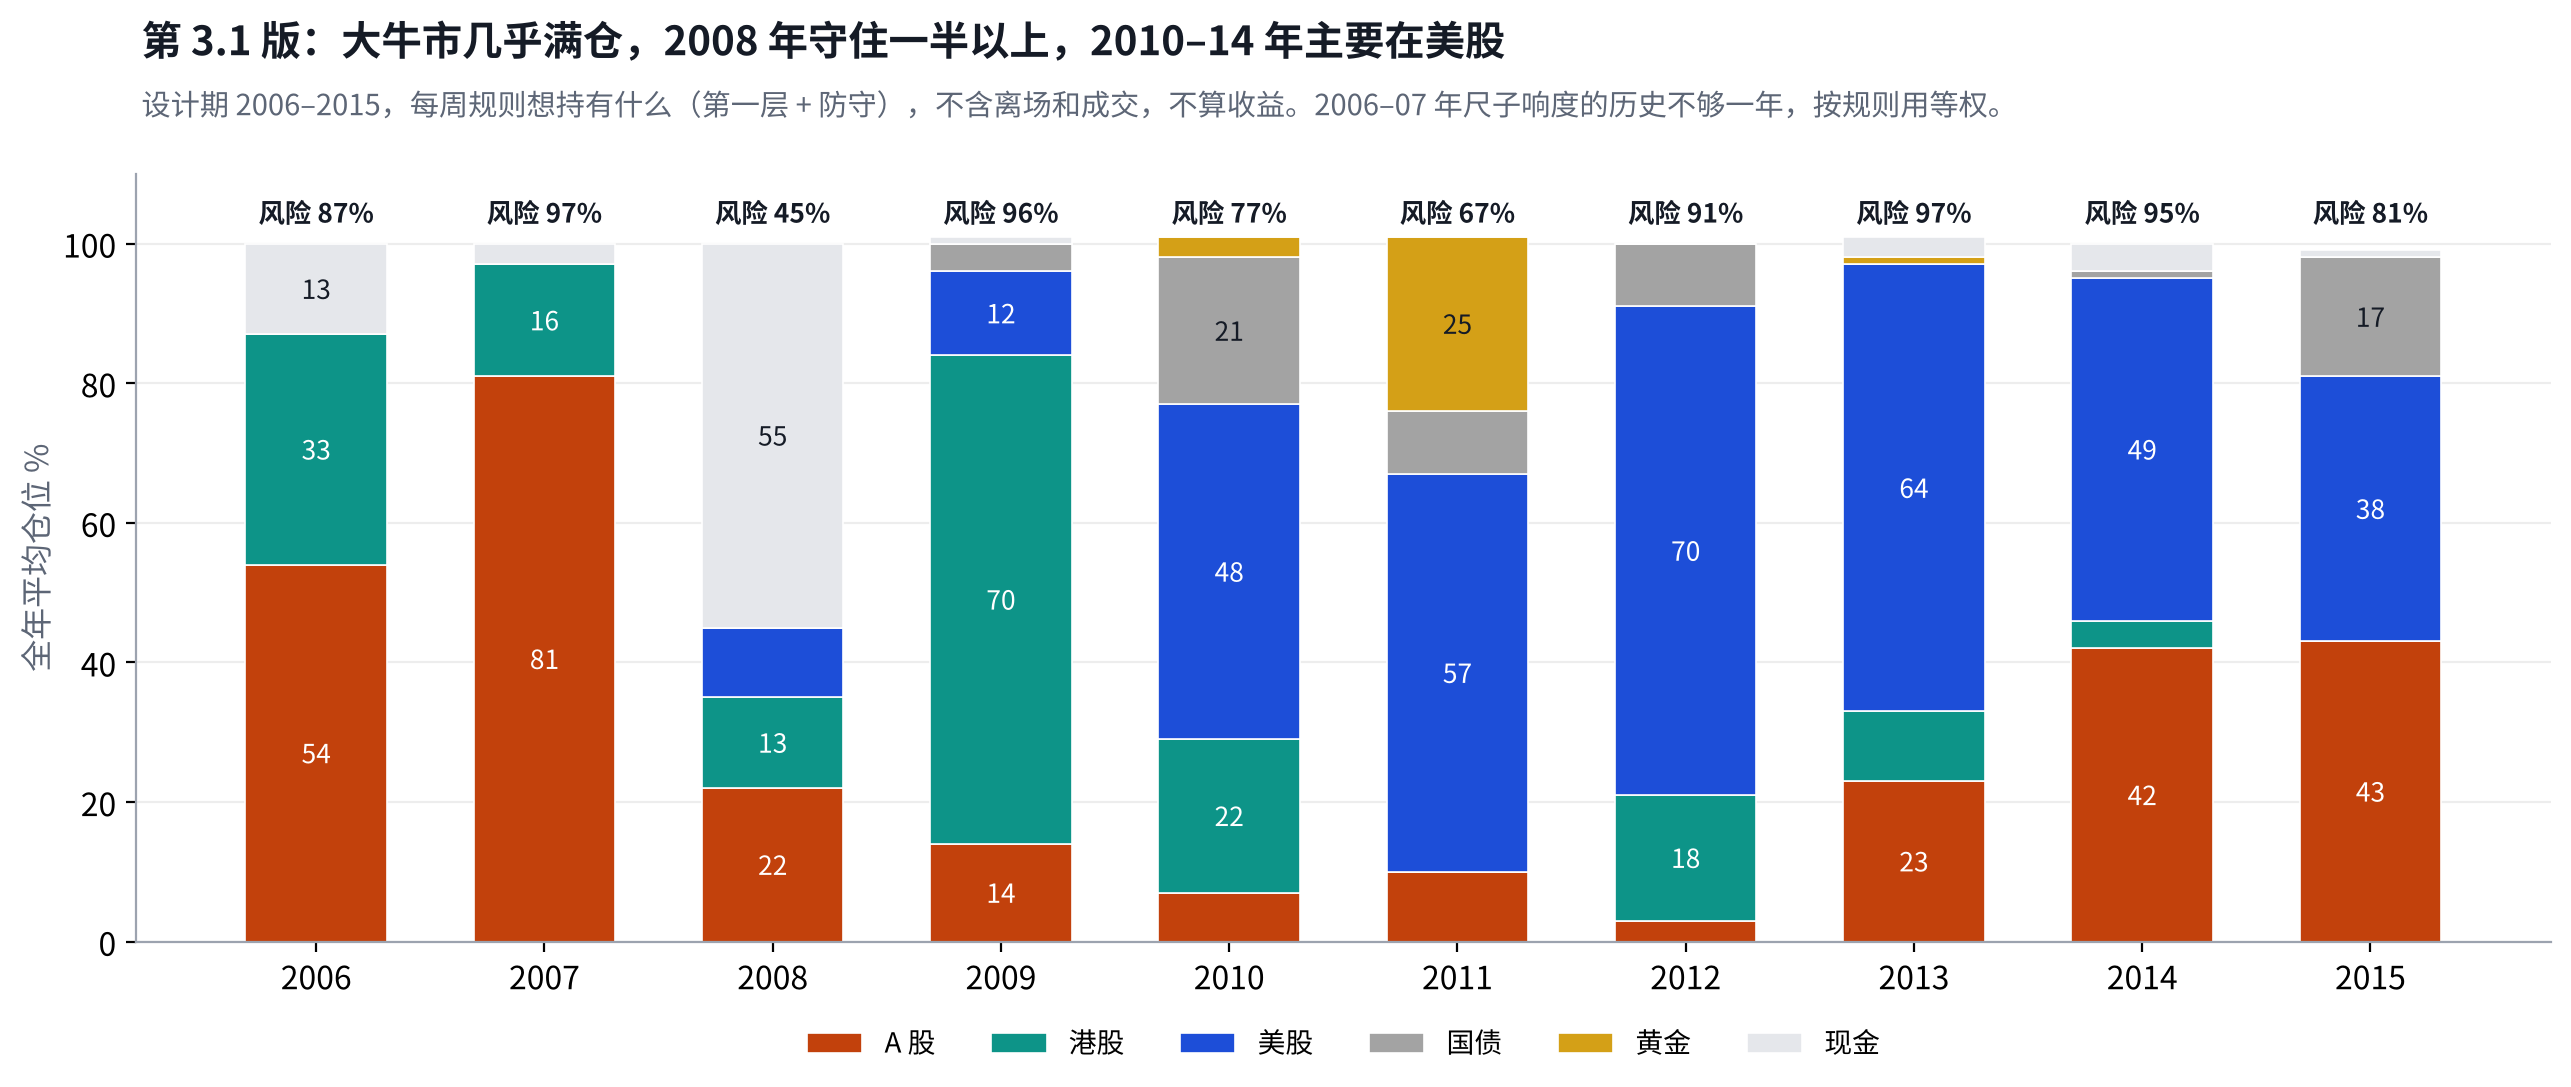
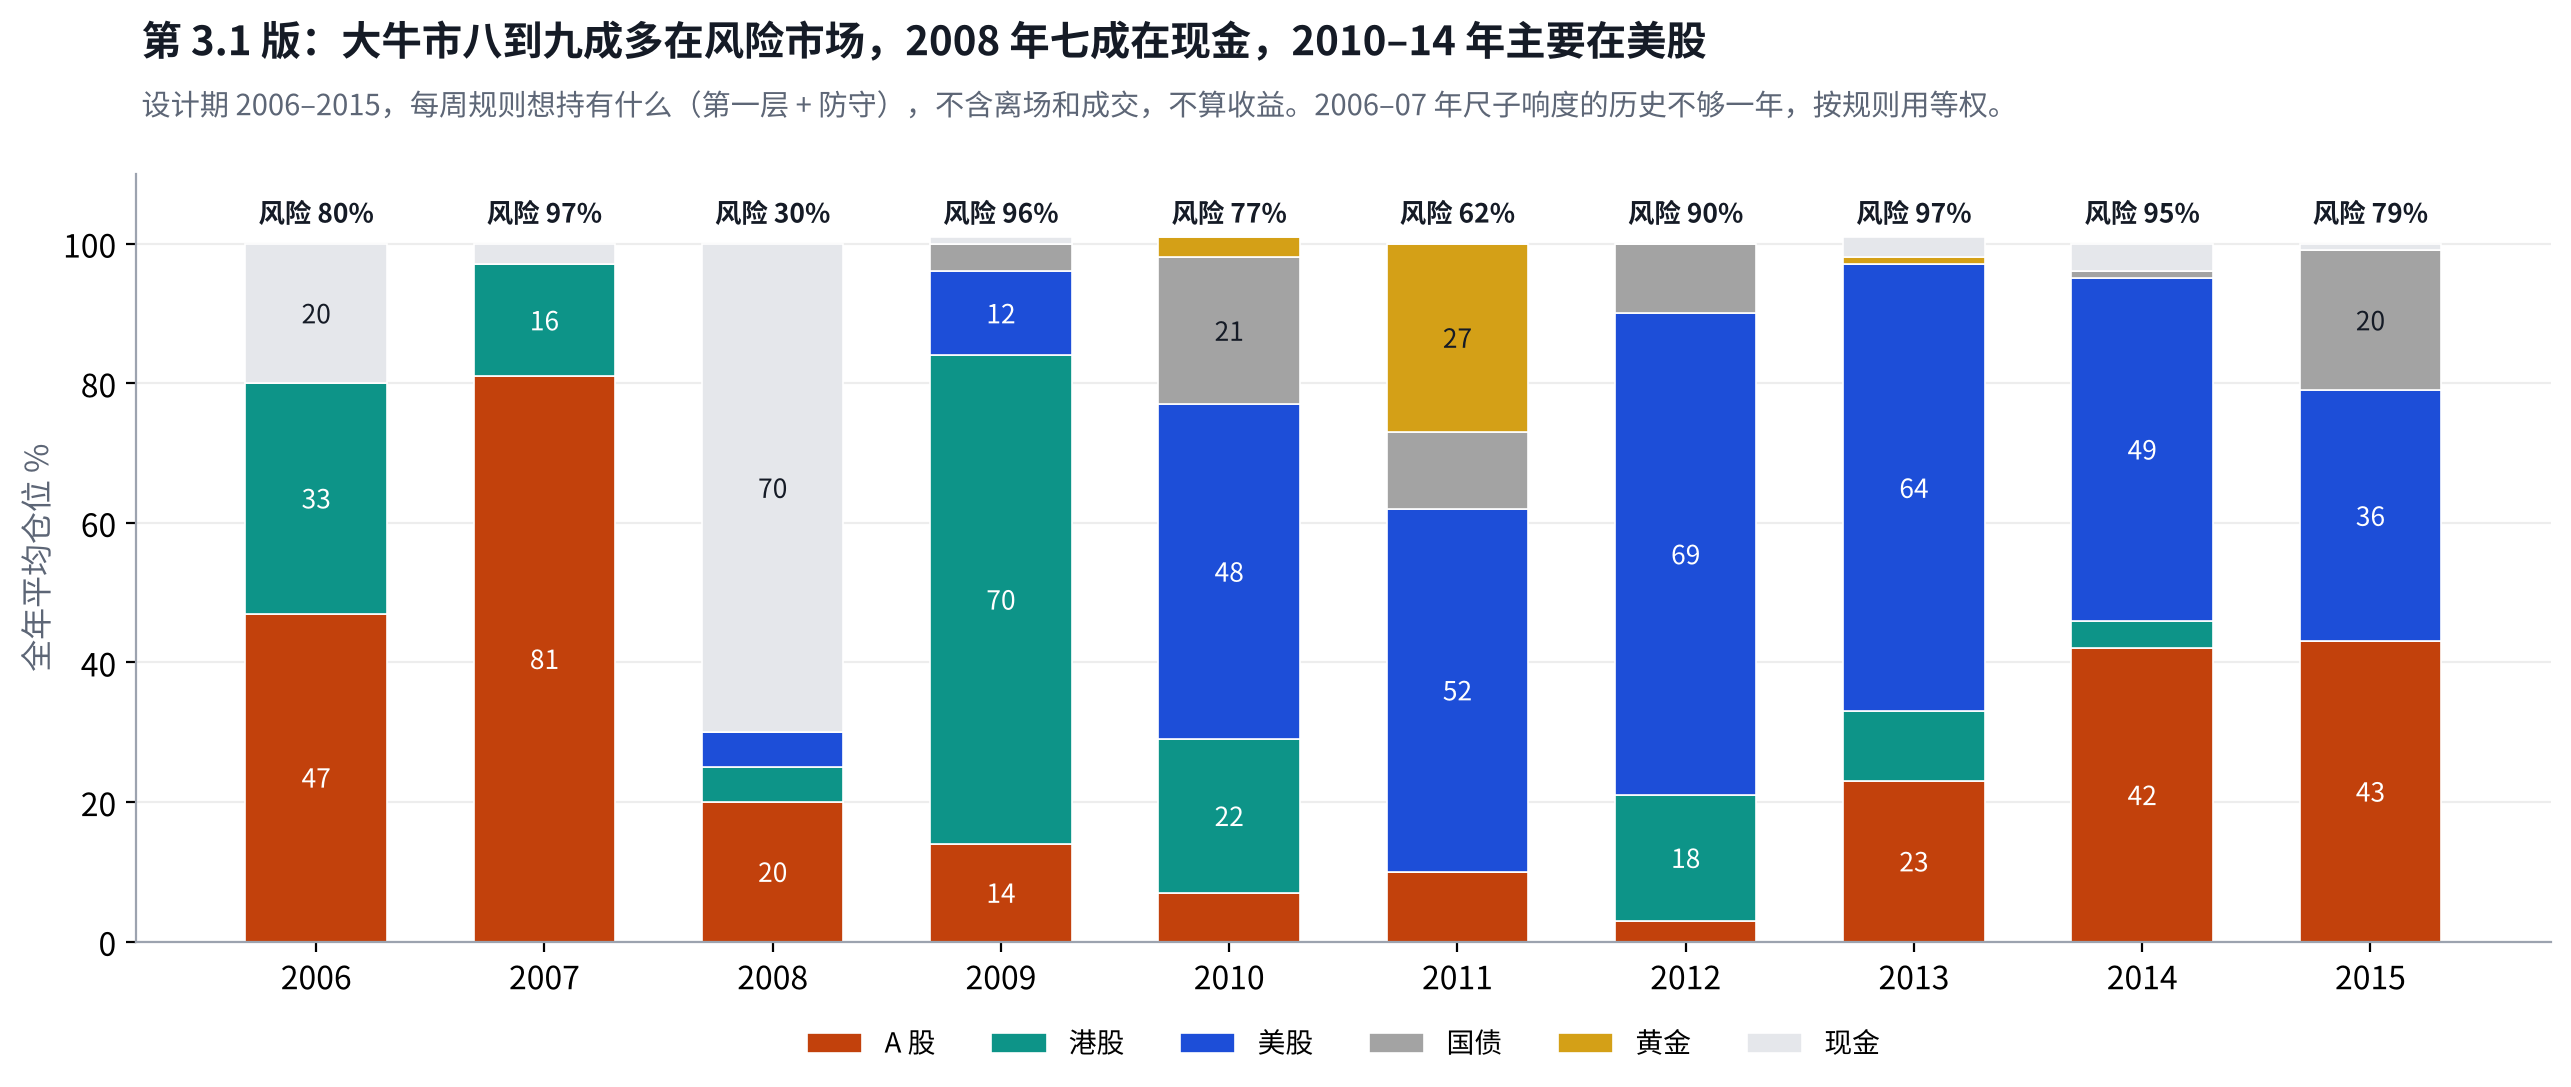
v5 研究备忘 19.2：长尺子连续两个月放缓（D32-2），画像更新
Claude-Session: https://claude.ai/code/session_01PmXaEwvnhMrSzwWPeiEpbL

diff --git a/docs/owner/v5-research-memo.md b/docs/owner/v5-research-memo.md
@@ -4,7 +4,7 @@
 
 - Project: ETF_Rotation_Quant
 - Document type: research
-- Status: active（第 19 版；设计稿第 3.1 版：响度加权、镜像两条腿、离场两种情况；事前画像和跑前五问）
+- Status: active（第 19.2 版；设计稿第 3.1 版：长尺子改为连续两个月放缓（D32-2））
 - Owner: L. Loric
 - Maintainer: Orchestrator
 - Date: 2026-11-03
@@ -256,7 +256,7 @@ v5 原版：两层 + 防守位
 
 每周最后一个交易日决定，下一个交易日收盘成交；离场每天看
 
-1. **量**：每个序列在 3–250 天的 28 把尺子上算速度 = 超出现金的涨幅 ÷（过去 250 天的日波动 × √天数）。每把尺子的权重 = 它最近一段（自己的长度）平均有多响，在自己历史上的排名；历史不足一年时等权。读出三个数：**水平**（加权平均速度）、**转负前沿**（速度为负的尺子占几成）、**长尺子放缓**（60 天以上尺子的平均速度比一个月前高）。
+1. **量**：每个序列在 3–250 天的 28 把尺子上算速度 = 超出现金的涨幅 ÷（过去 250 天的日波动 × √天数）。每把尺子的权重 = 它最近一段（自己的长度）平均有多响，在自己历史上的排名；历史不足一年时等权。读出三个数：**水平**（加权平均速度）、**转负前沿**（速度为负的尺子占几成）、**长尺子放缓**（60 天以上尺子的平均速度**连续两个月**都比前一个月高，即“一波比一波弱”）。
 2. **第一层·选市场**：A 股（沪深300）、港股（恒生）、美股（标普500）里，至少一条腿成立才有资格，持水平最高的一个；另一个市场的水平要强出一倍噪音才换。
 3. **两条腿，各管一半仓位**：腿一（速度的传导）= 转负前沿不到一半；腿二 = 水平大于零，**或**长尺子在放缓。两条都成立满仓，成立一条半仓，都不成立离场。见顶时，前沿先过半、减到一半；水平转负且长尺子还在恶化，才全部离场。见底时，前沿退回一半以下、或长尺子开始放缓，就先回来一半。
 4. **防守**：没放进风险市场的那部分，在国债、黄金里取水平大于零且最高的（换另一只同样要强出一倍噪音）；都不行拿现金。
@@ -273,18 +273,18 @@ v5 原版：两层 + 防守位
 | --- | --- | --- | --- | --- |
 | **2007-10 见顶，风险清零** | 45 天，−19% | 38 天，−17% | 38 天，−17% | 略好 |
 | **2015-06 见顶，减到半仓** | 21 天，−27%（清零） | 21 天，−27%（清零） | **14 天，−19%** | **更早** |
-| **2008-11 见底，回到半仓** | 10 天，+19%（满仓） | 94 天，+38% | **3 天，+3%** | **明显更好** |
-| **2008-11 见底，满仓** | 10 天，+19% | 94 天，+38% | 31 天，+24% | 比第 3 版好，比第 2 版慢 |
-| **2006–07 大牛市，风险仓位** | 95–98% | 95–97% | 87–97% | 守住 |
-| **2008 熊市，风险仓位** | 23% | 17% | **45%** | **代价** 熊市反弹里长尺子也会放缓 |
-| **十年换市场** | 92 次 | 30 次 | **28 次** | **震荡问题解决** |
+| **2008-11 见底，回到半仓** | 10 天，+19%（满仓） | 94 天，+38% | **10 天，+19%** | **比第 3 版好** |
+| **2008-11 见底，满仓** | 10 天，+19% | 94 天，+38% | 45 天，+26% | 比第 3 版好，比第 2 版慢 |
+| **2006–07 大牛市，风险仓位** | 95–98% | 95–97% | 80–97% | 守住 |
+| **2008 熊市，风险仓位** | 23% | 17% | 30% | **代价变小** 改成连续两个月放缓之前是 45% |
+| **十年换市场** | 92 次 | 30 次 | **24 次** | **震荡问题解决** |
 
 | 跑前五问 | 第 3.1 版的回答 | 判定 |
 | --- | --- | --- |
 | **1. 钱是否跟着强弱走** | 市场按水平选最强的一个，ETF 按水平取前 3；两条腿只决定持多少 | **是** |
 | **2. 挑选发生在哪一层** | 第一层在三个市场之间，第二层在市场内部；B（全部一起排）只做对照 | **清楚** |
 | **3. 防守怎么进来** | 分步进来：一条腿失效，一半去国债、黄金或现金 | **不是开关** |
-| **4. 每个开关触发几次** | 十年换市场 28 次、仓位档位变 104 次（每年约 10 次）；半仓周数 2–44%（2008 最多）；单只离场 29 次，其中市场共振 18 次、自身问题 11 次（9 次在 2007 年行业轮动里）；第二层平均持 2.2 只 | **开关都在动** 档位变动偏多 |
+| **4. 每个开关触发几次** | 十年换市场 24 次、仓位档位变 103 次（每年约 10 次）；半仓周数 0–25%（2008 最多）；单只离场 28 次，其中市场共振 17 次、自身问题 11 次（9 次在 2007 年行业轮动里）；第二层平均持 2.2 只 | **开关都在动** 档位变动偏多 |
 | **5. 去掉信号还剩多少** | 预注册写死对照：随机选市场、随机选 3 只，仓位档位照抄，2000 次 | **跑时报告** |
 
 画像只算规则想持有什么，不算收益；2015 年以前的数据，计入诊断次数。2009 年七成在港股（水平高于 A 股，噪音带没让换），那年沪深300 涨幅大得多，这是和基准比最可能大输的一年。
